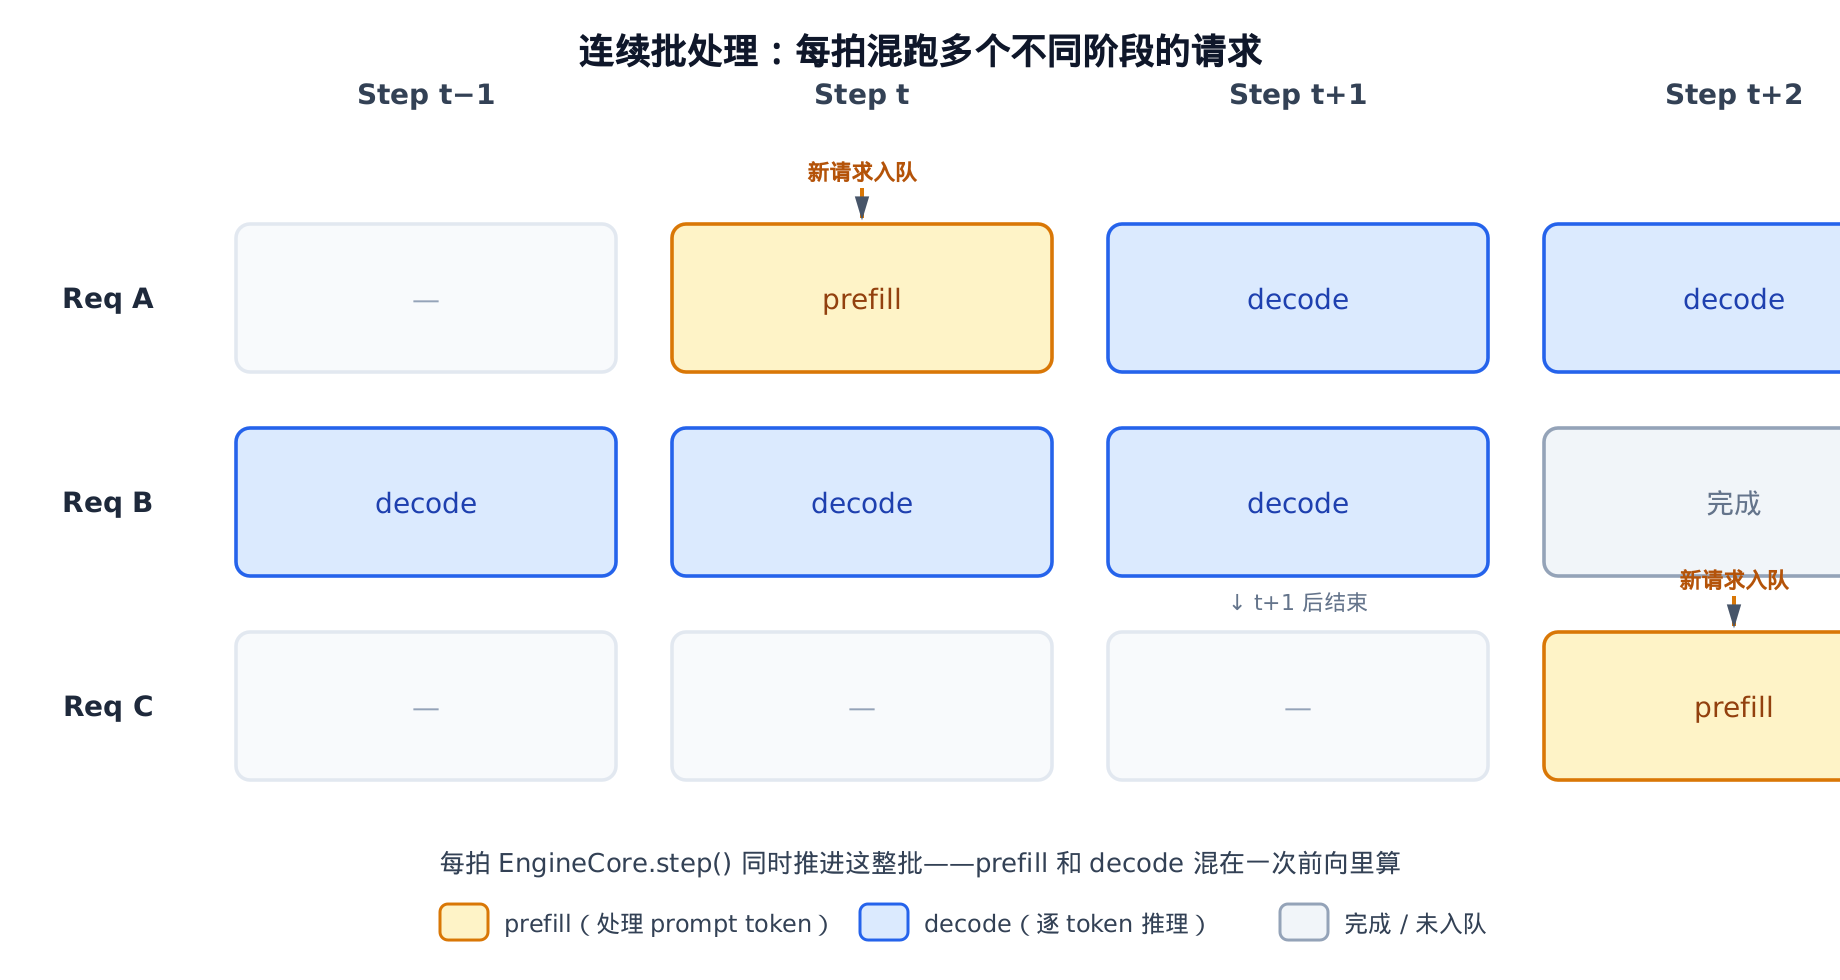
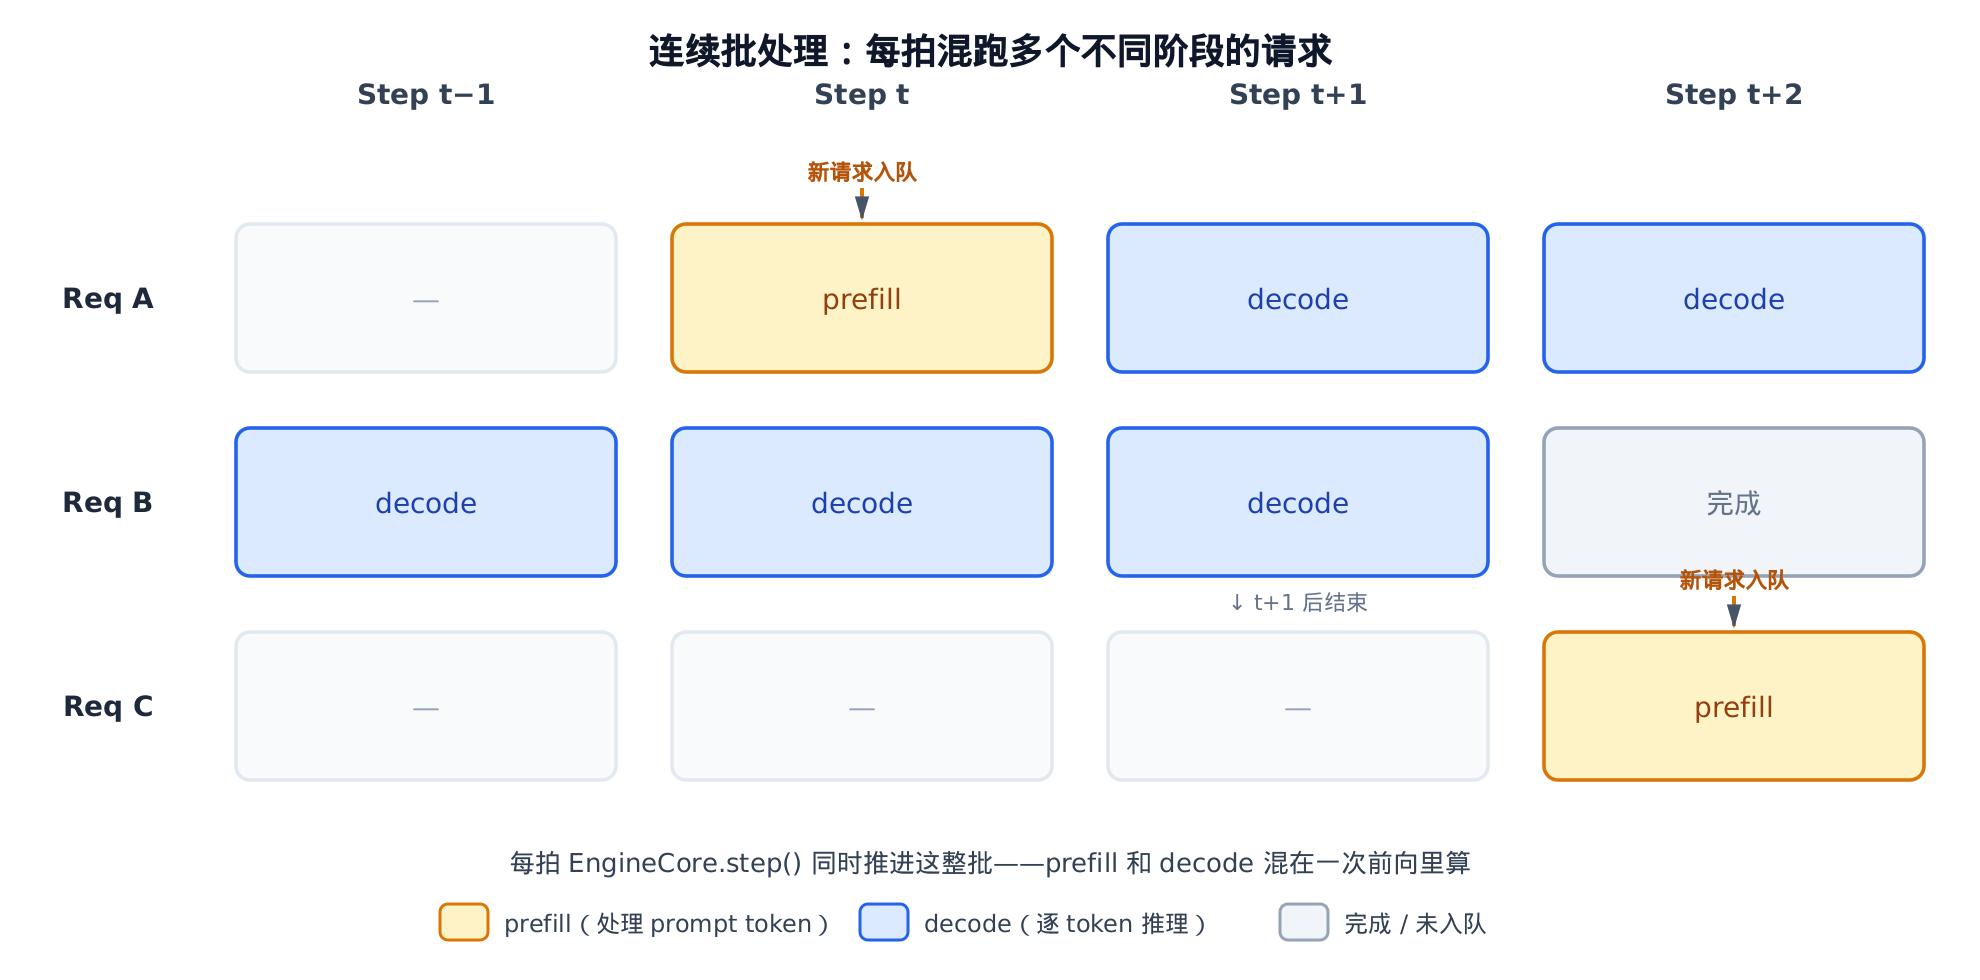
fix(diagrams): ch02 泳道图重做 + 去裁切; geometry linter 补查框越界
- ch02 01-lifecycle-spine：根因是 process_outputs/yield 框跨出 API 带、
  下行箭头穿过 generate 框、回程标签压在红框上。按"框不跨带/标签走空白
  通道/竖向贯通走 x≈514 空隙"重排，几何 lint 通过、目视确认无重叠。
- ch02 03-continuous-batching：t+2 列右缘到 x≈962 越出 W=920 被裁切 → W=990。
- ch27 02-backend-dispatch：右下分流框右缘到 x=1130 越出 W=1120 被裁切 → W=1140
  （由新增的 rect-overflow 检查扫出）。
- lint_diagram_geometry.py：新增 (1b) rect-overflow —— 此前 overflow 只查
  <text> 盒，居中文字不越界而框边被切的整类裁切漏网；现单独查 <rect> 越界。

diff --git a/instances/vllm/artifacts/ch02-entrypoints/diagrams/gen_lifecycle_spine.py b/instances/vllm/artifacts/ch02-entrypoints/diagrams/gen_lifecycle_spine.py
@@ -1,5 +1,12 @@
 #!/usr/bin/env python3
-"""一个请求的一生：端到端主线（三段式）横向时序泳道。"""
+"""一个请求的一生：端到端主线（三段式）横向时序泳道。
+
+布局准则（防文字错位/重叠/线框穿插）：
+  · 每个框严格落在所属泳道带内（不跨带）；
+  · 标签放在无框的空白通道里，不压任何框；
+  · 竖向贯通箭头只走 collector(…468) 与 generate(560…) 之间的空隙 x≈514；
+  · 细线交叉可接受，框与框/字与框重叠不可接受。
+"""
 import xml.sax.saxutils as xs
 
 
@@ -7,14 +14,12 @@ def esc(s):
     return xs.escape(s)
 
 
-W, H = 1180, 720
+W, H = 1180, 760
 L = [f'<svg xmlns="http://www.w3.org/2000/svg" viewBox="0 0 {W} {H}">']
 L.append(
     '<defs>'
     '<marker id="a" viewBox="0 0 10 6" refX="9" refY="3" markerWidth="7" markerHeight="5" orient="auto">'
     '<path d="M0,0 L10,3 L0,6 Z" fill="#475569"/></marker>'
-    '<marker id="ar" viewBox="0 0 10 6" refX="1" refY="3" markerWidth="7" markerHeight="5" orient="auto">'
-    '<path d="M10,0 L0,3 L10,6 Z" fill="#475569"/></marker>'
     '</defs>'
 )
 L.append(f'<rect width="{W}" height="{H}" fill="white"/>')
@@ -38,6 +43,13 @@ def box(x, y, w, h, fill, stroke, lines, size=13, tcolor="#1e293b", weight="norm
              weight=weight, fill=tcolor)
 
 
+def line(x1, y1, x2, y2, color="#475569", width=2):
+    L.append(
+        f'<line x1="{x1}" y1="{y1}" x2="{x2}" y2="{y2}" stroke="{color}" '
+        f'stroke-width="{width}"/>'
+    )
+
+
 def arrow(x1, y1, x2, y2, color="#475569", dash=False, width=2):
     d = ' stroke-dasharray="6 4"' if dash else ''
     L.append(
@@ -53,22 +65,19 @@ text(W / 2, 34, "一个请求的一生：端到端主线（三段式异步）", 
 lane_x = 20
 lane_w = W - 40
 lanes = [
-    (62, 300, "#eff6ff", "#bfdbfe", "API 进程 · 单事件循环上的多协程"),
-    (372, 110, "#fef9c3", "#fde68a", "进程边界 · ZMQ（msgpack 序列化）"),
-    (492, 200, "#f0fdf4", "#bbf7d0", "引擎进程 · run_busy_loop 同步循环"),
+    (58, 350, "#eff6ff", "#bfdbfe", "API 进程 · 单事件循环上的多协程"),
+    (422, 92, "#fef9c3", "#fde68a", "进程边界 · ZMQ（msgpack 序列化）"),
+    (528, 204, "#f0fdf4", "#bbf7d0", "引擎进程 · run_busy_loop 同步循环"),
 ]
 for y, h, fill, stroke, label in lanes:
     L.append(
         f'<rect x="{lane_x}" y="{y}" width="{lane_w}" height="{h}" rx="10" '
         f'fill="{fill}" stroke="{stroke}" stroke-width="1.5"/>'
     )
-    # ZMQ lane label moved down to avoid collision with process_outputs box text
-    label_dy = 42 if "ZMQ" in label else 22
-    text(lane_x + 14, y + label_dy, label, size=14, weight="bold", fill="#334155")
+    text(lane_x + 14, y + 24, label, size=14, weight="bold", fill="#334155")
 
-# ── API process lane content ──
-# Row 1: add_request chain (top)
-y_add = 110
+# ── API process lane: Row 1 — add_request chain ─────────────────────────────
+y_add = 104
 box(40, y_add, 150, 56, "white", "#3b82f6",
     ["render", "PromptType→EngineInput"], size=12)
 box(220, y_add, 168, 56, "#dbeafe", "#2563eb",
@@ -77,78 +86,76 @@ box(418, y_add, 150, 56, "white", "#3b82f6",
     ["assign_request_id", "+8 位随机后缀"], size=12)
 box(598, y_add, 150, 56, "#dbeafe", "#2563eb",
     ["add_request", "建 collector / 扇出"], size=12)
-
 arrow(190, y_add + 28, 220, y_add + 28)
 arrow(388, y_add + 28, 418, y_add + 28)
 arrow(568, y_add + 28, 598, y_add + 28)
-text(305, y_add - 8, "EngineCoreRequest 在这里诞生", size=11, anchor="middle", fill="#1d4ed8")
+text(305, y_add - 12, "EngineCoreRequest 在这里诞生", size=11, anchor="middle", fill="#1d4ed8")
 
-# Row 2: output_handler (producer)  +  generate (consumer)
-y_oh = 250
-box(40, y_oh, 200, 64, "#dbeafe", "#2563eb",
+# ── API process lane: Row 2 — output_handler (producer) + generate (consumer)
+box(40, 218, 200, 60, "#dbeafe", "#2563eb",
     ["output_handler（后台 task）", "= 三段式的搬运工 / 生产者"], size=12, weight="bold")
-box(40, y_oh + 96, 200, 60, "#fee2e2", "#dc2626",
+box(40, 314, 200, 60, "#fee2e2", "#dc2626",
     ["process_outputs (Stage 3)", "去 token 化 + 停止 + logprobs"], size=11, weight="bold")
-box(300, y_oh + 50, 168, 56, "#fef3c7", "#d97706",
+box(300, 258, 168, 56, "#fef3c7", "#d97706",
     ["RequestOutputCollector", "每请求信箱 put/get"], size=11, weight="bold")
-box(560, y_oh + 50, 188, 60, "#dbeafe", "#2563eb",
+box(560, 258, 188, 60, "#dbeafe", "#2563eb",
     ["generate()（消费者协程）", "get_nowait() or await get()"], size=11, weight="bold")
-box(560, y_oh + 130, 188, 44, "#e0e7ff", "#4f46e5",
+box(560, 338, 188, 44, "#e0e7ff", "#4f46e5",
     ["yield RequestOutput → 用户"], size=12, weight="bold")
 
-# output_handler -> process_outputs
-arrow(140, y_oh + 64, 140, y_oh + 96)
+# output_handler -> process_outputs (down)
+arrow(140, 278, 140, 314)
 # process_outputs -> collector (put)
-arrow(240, y_oh + 126, 300, y_oh + 86, color="#d97706")
-text(270, y_oh + 100, "put()", size=11, anchor="middle", fill="#b45309")
+arrow(240, 340, 300, 312, color="#d97706")
+text(270, 304, "put()", size=11, anchor="middle", fill="#b45309")
 # collector -> generate (get)
-arrow(468, y_oh + 78, 560, y_oh + 78)
-text(514, y_oh + 70, "get()", size=11, anchor="middle", fill="#475569")
-# generate -> yield
-arrow(654, y_oh + 110, 654, y_oh + 130)
+arrow(468, 286, 560, 286)
+text(514, 278, "get()", size=11, anchor="middle", fill="#475569")
+# generate -> yield (down)
+arrow(654, 318, 654, 338)
 
-# add_request -> engine (down across ZMQ)
-box(40, y_add + 70, 168, 30, "none", "none", [""], rx=0)
-arrow(682, y_add + 56, 682, 372, color="#a16207")
-text(700, y_add + 130, "add_request_async", size=11, fill="#a16207")
-text(700, y_add + 148, "EngineCoreRequest →ZMQ", size=10, fill="#a16207")
+# ── add_request -> engine (down through the clear x≈514 channel) ────────────
+line(673, 160, 673, 182, color="#a16207")
+line(673, 182, 514, 182, color="#a16207")
+arrow(514, 182, 514, 434, color="#a16207")
+text(524, 206, "add_request_async", size=11, fill="#a16207")
+text(524, 222, "EngineCoreRequest →ZMQ", size=10, fill="#a16207")
 
 # ── ZMQ lane content ──
-box(300, 392, 200, 70, "#fef08a", "#ca8a04",
+box(300, 434, 220, 72, "#fef08a", "#ca8a04",
     ["AsyncMPClient", "add_request_async（入向）", "get_output_async（出向）"], size=11, weight="bold")
 
+# return path: ZMQ -> output_handler (up); labels sit RIGHT of the line, clear band
+arrow(340, 434, 200, 278, color="#a16207")
+text(300, 340, "get_output_async", size=11, anchor="start", fill="#a16207")
+text(300, 356, "拉一批", size=10, anchor="start", fill="#a16207")
+
 # ── Engine lane content ──
-y_eng = 532
+y_eng = 566
 box(40, y_eng, 188, 70, "#dcfce7", "#16a34a",
     ["run_busy_loop", "取入队 → step → 出队", "（独立 OS 进程的心跳）"], size=11, weight="bold")
-# step four sub-steps
 steps = ["schedule", "execute_model", "sample_tokens", "update_from_output"]
-sx = 260
-sw = 178
+sx, sw = 260, 178
 for i, st in enumerate(steps):
     x = sx + i * (sw + 12)
     box(x, y_eng + 8, sw, 54, "white", "#15803d", [f"{i+1}. {st}"], size=13, weight="bold")
     if i < 3:
         arrow(x + sw, y_eng + 35, x + sw + 12, y_eng + 35, color="#15803d")
-# bracket label for step
-text(260 + 2 * (sw + 12), y_eng - 6, "EngineCore.step() —— 一拍：连续批里 prefill + decode 混跑", size=12, anchor="middle", weight="bold", fill="#166534")
+# bracket label for step (above the four boxes, centered)
+text((260 + 1008) / 2, y_eng - 8, "EngineCore.step() —— 一拍：连续批里 prefill + decode 混跑",
+     size=12, anchor="middle", weight="bold", fill="#166534")
 
-# engine -> ZMQ (output up)
-arrow(450, y_eng, 450, 462, color="#a16207")
-text(468, y_eng - 30, "EngineCoreOutputs →ZMQ", size=10, fill="#a16207")
-
-# ZMQ -> output_handler (up into API)
-arrow(300, 414, 240, 290, color="#a16207")
-text(250, 360, "get_output_async", size=11, anchor="end", fill="#a16207")
-text(250, 376, "拉一批", size=10, anchor="end", fill="#a16207")
+# engine -> ZMQ (output up into AsyncMPClient)
+arrow(360, y_eng, 360, 506, color="#a16207")
+text(378, y_eng - 30, "EngineCoreOutputs →ZMQ", size=10, fill="#a16207")
 
 # ── per-station 放大角标 (right margin notes) ──
 notes = [
-    (y_add + 4, "Stage 1 → 第 5 章放大", "#2563eb"),
-    (y_oh + 4, "搬运/解耦 → 第 4·8 章", "#2563eb"),
-    (y_oh + 158, "去 token 化 → 第 9·10 章", "#dc2626"),
-    (392, "IPC → 第 7 章", "#ca8a04"),
-    (y_eng - 22, "四步 → 第 11·13·19·27 章", "#16a34a"),
+    (108, "Stage 1 → 第 5 章放大", "#2563eb"),
+    (224, "搬运/解耦 → 第 4·8 章", "#2563eb"),
+    (348, "去 token 化 → 第 9·10 章", "#dc2626"),
+    (444, "IPC → 第 7 章", "#ca8a04"),
+    (548, "四步 → 第 11·13·19·27 章", "#16a34a"),
 ]
 for yy, s, c in notes:
     text(W - 28, yy, s, size=11, anchor="end", fill=c, weight="bold")

diff --git a/scripts/lint_diagram_geometry.py b/scripts/lint_diagram_geometry.py
@@ -118,12 +118,18 @@ def check(path):
     texts, rects, arrows = collect(root)
     issues = []
     PAD = 2.0
-    # (1) overflow
+    # (1) overflow — 文字盒越出画布
     for t in texts:
         if t['x1'] > vx + vw + PAD or t['x0'] < vx - PAD or t['yb'] > vy + vh + PAD or t['yt'] < vy - PAD:
             over = round(max(t['x1'] - (vx + vw), vx - t['x0'], t['yb'] - (vy + vh), vy - t['yt']))
             if over > 4:
                 issues.append(f"overflow: 「{t['s'][:24]}」越出画布约 {over}px")
+    # (1b) rect-overflow — 框越出画布(被裁切)。文字居中时字不越界但框边被切, 故单独查。
+    for r in rects:
+        if r['x1'] > vx + vw + PAD or r['x0'] < vx - PAD or r['y1'] > vy + vh + PAD or r['y0'] < vy - PAD:
+            over = round(max(r['x1'] - (vx + vw), vx - r['x0'], r['y1'] - (vy + vh), vy - r['y0']))
+            if over > 4:
+                issues.append(f"rect-overflow: 一个 {round(r['w'])}×{round(r['h'])} 框越出画布约 {over}px(被裁切)")
     # (2) text-text
     for i in range(len(texts)):
         for j in range(i + 1, len(texts)):

diff --git a/instances/vllm/artifacts/ch02-entrypoints/diagrams/gen_continuous_batching.py b/instances/vllm/artifacts/ch02-entrypoints/diagrams/gen_continuous_batching.py
@@ -7,7 +7,7 @@ def esc(s):
     return xs.escape(s)
 
 
-W, H = 920, 490
+W, H = 990, 490   # widened so the t+2 column (ends at x≈962) is not clipped
 L = [f'<svg xmlns="http://www.w3.org/2000/svg" viewBox="0 0 {W} {H}">']
 L.append(
     '<defs>'

diff --git a/instances/vllm/artifacts/ch27-sampling/diagrams/gen_02_backend.py b/instances/vllm/artifacts/ch27-sampling/diagrams/gen_02_backend.py
@@ -5,7 +5,7 @@ import xml.sax.saxutils as xs
 def esc(s):
     return xs.escape(s)
 
-W, H = 1120, 760
+W, H = 1140, 760   # widened: 右下分流框右缘到 x=1130, 留 10px 边距防裁切
 L = [f'<svg xmlns="http://www.w3.org/2000/svg" viewBox="0 0 {W} {H}">']
 L.append('<defs>'
          '<marker id="a" viewBox="0 0 10 6" refX="9" refY="3" markerWidth="7" markerHeight="5" orient="auto">'